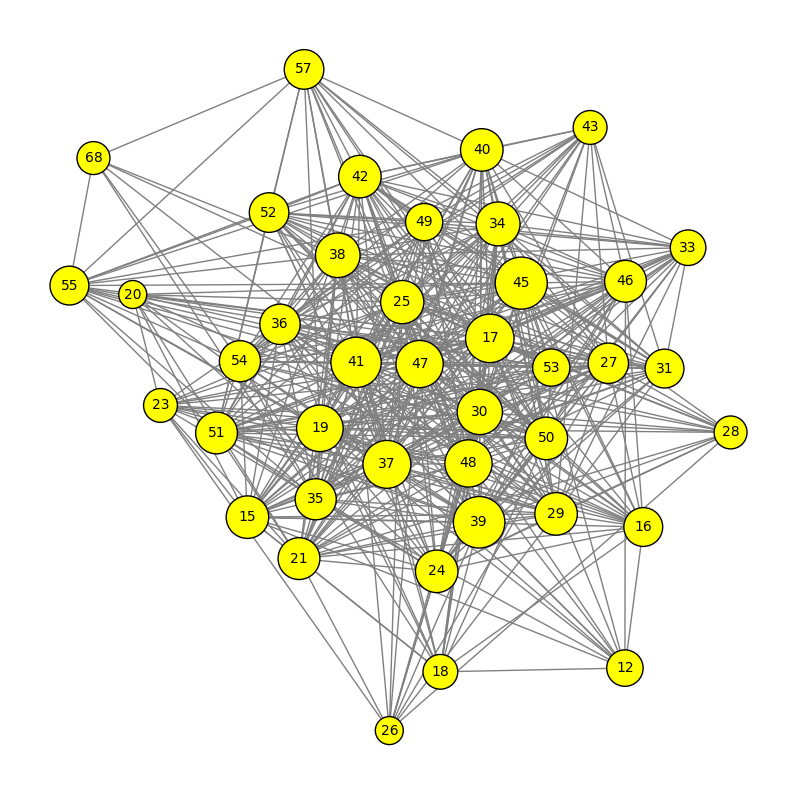
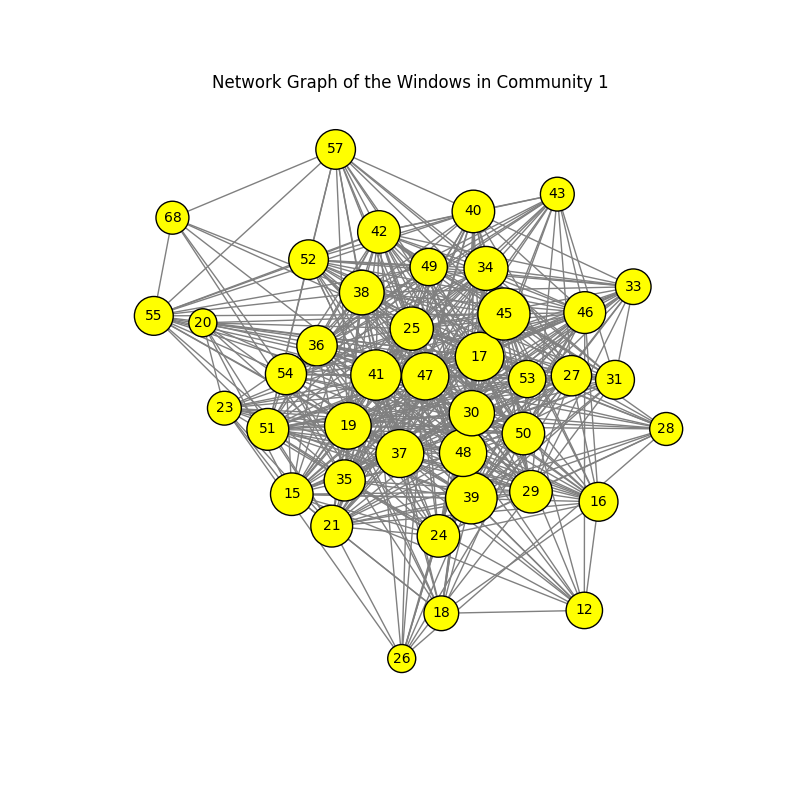
post demo

Changed region(s): [[0.0625, 0.0625, 0.9375, 0.9375], [0.4062, 0.7812, 0.4375, 0.8438]]

diff --git a/Activity-13/main.py b/Activity-13/main.py
@@ -159,10 +159,12 @@ print("Hubs:", node_hubs)
 
 # function to find and return the neighbors of each of the node hubs
 def find_neighbors(hub):
-    neighbors = []
+    neighbors = [] # list of the neighbors
     for edge in edges:
         if hub[1] not in edge:
             continue
+        # check if the first edge is within the pair and if so add it
+        # if we made it this fair then the second node is in the pair so add that
         neighbors.append(edge[0] if edge[1] == hub[1] else edge[1])
     return neighbors
 
@@ -171,7 +173,10 @@ neighbor_list = []
 for i, hub in enumerate(node_hubs):
     neighbor_list.append(find_neighbors(hub))
     print("Size of Community", i, ":", len(neighbor_list[i]))
-
+    print(neighbor_list[i])
+# function to gather the information about each of the windows
+# and the hist1 features within them
+# returns a dictionary with the results
 def preprocess_hist1_features(file_path):
     hist1_dict = {}
     with open(file_path, "r", encoding="UTF-8") as f:
@@ -180,6 +185,9 @@ def preprocess_hist1_features(file_path):
             hist1_dict[row["name"]] = int(row["Hist1"])
     return hist1_dict
 
+# function to gather the information about each of the windows
+# and the LAD features within them
+# returns a dictionary with the results
 def preprocess_lad_features(file_path):
     hist1_dict = {}
     with open(file_path, "r", encoding="UTF-8") as f:
@@ -188,13 +196,16 @@ def preprocess_lad_features(file_path):
             hist1_dict[row["name"]] = int(row["LAD"])
     return hist1_dict
 
+# call the preprocessing functions to gather the feature information
 hist1_features = preprocess_hist1_features("Hist1_region_features.csv")    
 lad_features = preprocess_lad_features("Hist1_region_features.csv")
 
+# look through each of the center hubs
 for index, hub in enumerate(node_hubs):
-    community_size = len(neighbor_list[index])
     hist1_count = 0
     lad_count = 0
+    
+    # for each center hub go through their neighbors and count the number of HIST1 and LAD features
     for node in neighbor_list[index]:
         node_name = degreeOfCentrality[node][0]
         if hist1_features[node_name] == 1:
@@ -202,6 +213,11 @@ for index, hub in enumerate(node_hubs):
         if lad_features[node_name] == 1:
             lad_count += 1
 
+    # the number of neighbors each node has
+    # used to calculate the percentages
+    community_size = len(neighbor_list[index])
+
+    # calculating the percentage of neighbors that has either the HIST1 or LAD feature
     hist1_percentage = (hist1_count / community_size) * 100
     print(f"\nCommunity {index}: {hist1_percentage:.2f}% of nodes have the HIST1 feature.")
 
@@ -209,6 +225,7 @@ for index, hub in enumerate(node_hubs):
     print(f"Community {index}: {lad_percentage:.2f}% of nodes have the LAD feature.")
 
 def graph_community_interactions(community, community_index):
+    # helper function to get the interactions between nodes in the same community
     def get_community_interactions(community):
         community_edges = []
         for edge in edges:
@@ -216,22 +233,27 @@ def graph_community_interactions(community, community_index):
                 community_edges.append(edge)
         return community_edges
     community_edges = get_community_interactions(community)
-    # community_nodes = set(node for edge in community_edges for node in edge)
 
+    # make the graphing object
     network_graph = nx.Graph()
-
+    # add the edges to the graph, which in turn adds the nodes
     network_graph.add_edges_from(community_edges)
-    print(network_graph.number_of_nodes())
 
     # plotting the network figure, using NetworkX
     plt.figure(figsize=(8, 8))
 
     # calculate node sizes based on the number of connections (degree of centrality)
+    # multiply by the constant of 2500 to for a larger size in the graph and better visuals
     node_sizes = {index: centrality * 2500 for _, index, centrality in degreeOfCentrality}
 
+    # make the layout of the graph, seed it with 123 for constant positions
+    # and set k to 1.8 for spacing between nodes and less overlap
     pos = nx.spring_layout(network_graph, seed=123, k=1.8)  
 
-    # Draw the graph
+    # put the title on the graph
+    plt.title(f"Network Graph of the Windows in Community {community_index}")
+
+    # draw the nodes and edges
     nx.draw(
         network_graph,
         pos=pos,
@@ -245,15 +267,15 @@ def graph_community_interactions(community, community_index):
         edgecolors="black"
     )
 
-    # Adjust spacing between nodes
-    plt.title(f"Network Graph of the Windows in Community {community_index}")
+    # save the graph
     plt.savefig(f"Network {community_index}")
 
+# actually making the network graphs for each of the communities
 for index, community in enumerate(neighbor_list):
     graph_community_interactions(community, index)
 
 def plot_heatmap(matrix, community, community_index):
-    # Create a new matrix with zeros for rows/cols not in the community
+    # create a new matrix with zeros for rows/cols not in the community
     filtered_matrix = [[0 for _ in range(len(matrix))] for _ in range(len(matrix))]
     for i in community:
         for j in community:
@@ -268,6 +290,6 @@ def plot_heatmap(matrix, community, community_index):
     plt.savefig(f"Heatmap for Community {community_index}")
     plt.close()
 
-# Plot heatmap for each community
+# plot heatmap for each community
 for index, community in enumerate(neighbor_list):
     plot_heatmap(normalized_linkage_table, community, index)
